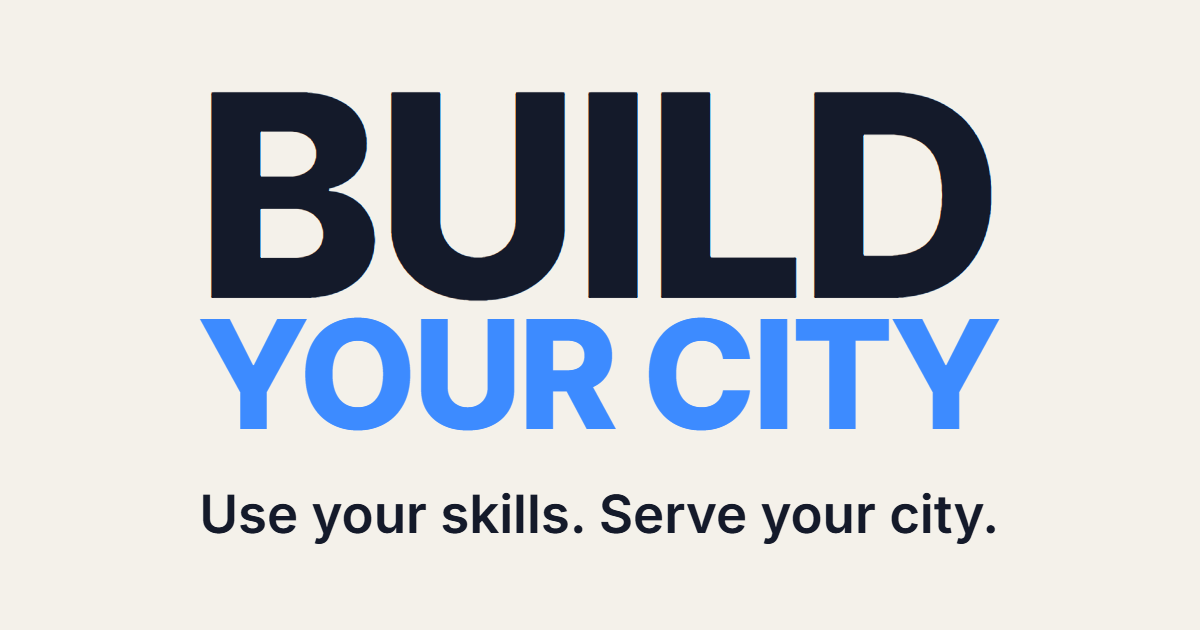
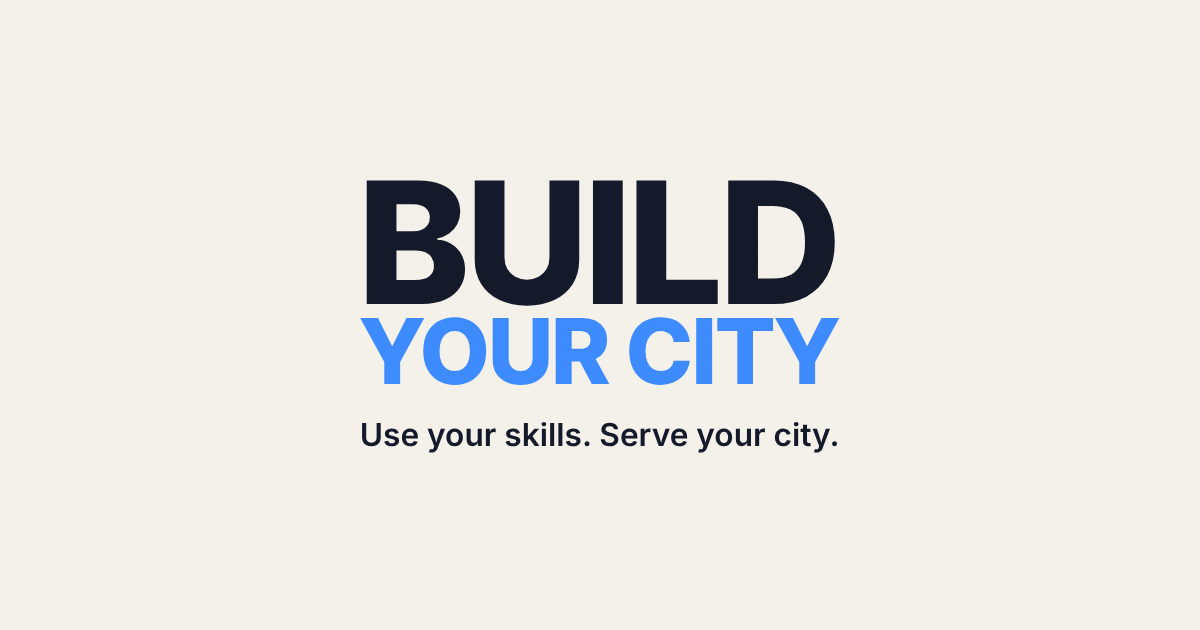
Social preview: keep the lockup inside the center square (#72)
Facebook's mobile composer square-crops link previews from the center,
which cut the wordmark and tagline on both sides. The lockup now fits
the central 630px square with margin, and the image URLs get ?v=2 so
Facebook and LinkedIn fetch the new image.

Changed region(s): [[0.1542, 0.1206, 0.8325, 0.7238], [0.1542, 0.7841, 0.8325, 0.8746]]

diff --git a/sites/columbus/config/site.ts b/sites/columbus/config/site.ts
@@ -10,7 +10,7 @@ export const site: SiteMeta = {
 	url: "https://buildcolumbus.org",
 	description:
 		"Builders in Columbus using their skills to help local nonprofits. Developers, designers, content creators, and more. All are welcome.",
-	ogImage: "/og-columbus.png",
+	ogImage: "/og-columbus.png?v=2",
 	themeColor: "#141A2A",
 };
 

diff --git a/sites/build-your-city/site.ts b/sites/build-your-city/site.ts
@@ -9,6 +9,6 @@ export const site: SiteMeta = {
 	url: "https://build-your-city.org",
 	description:
 		"A network of communities where builders use their skills to help local nonprofits.",
-	ogImage: "/og-build-your-city.png",
+	ogImage: "/og-build-your-city.png?v=2",
 	themeColor: "#141A2A",
 };
